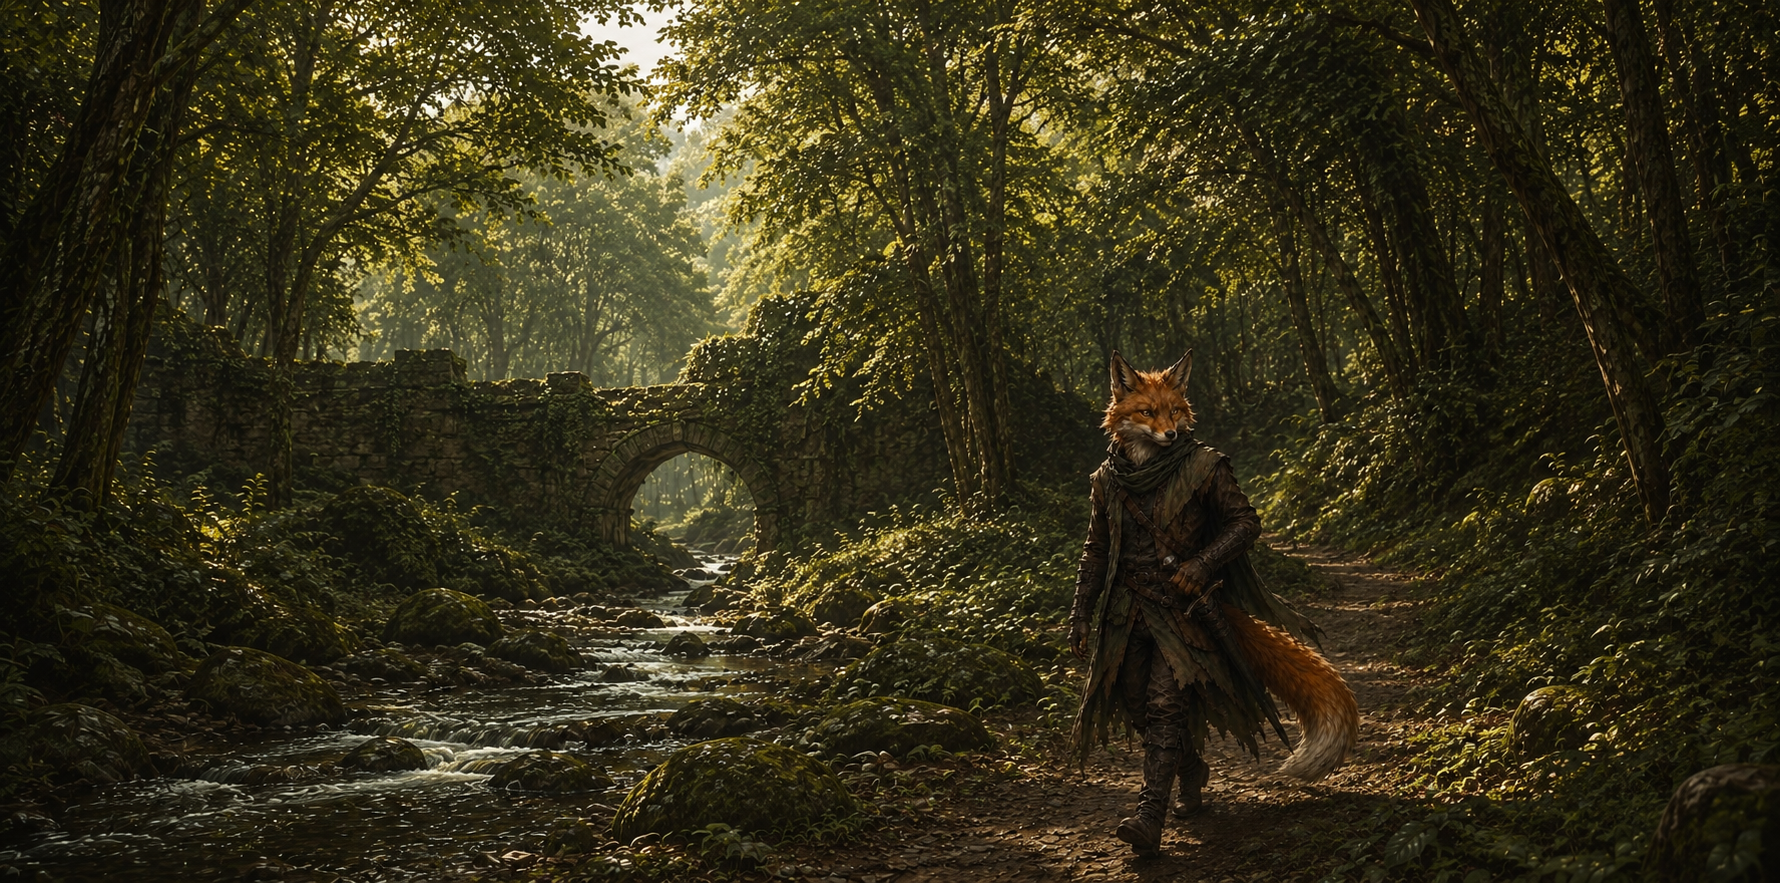
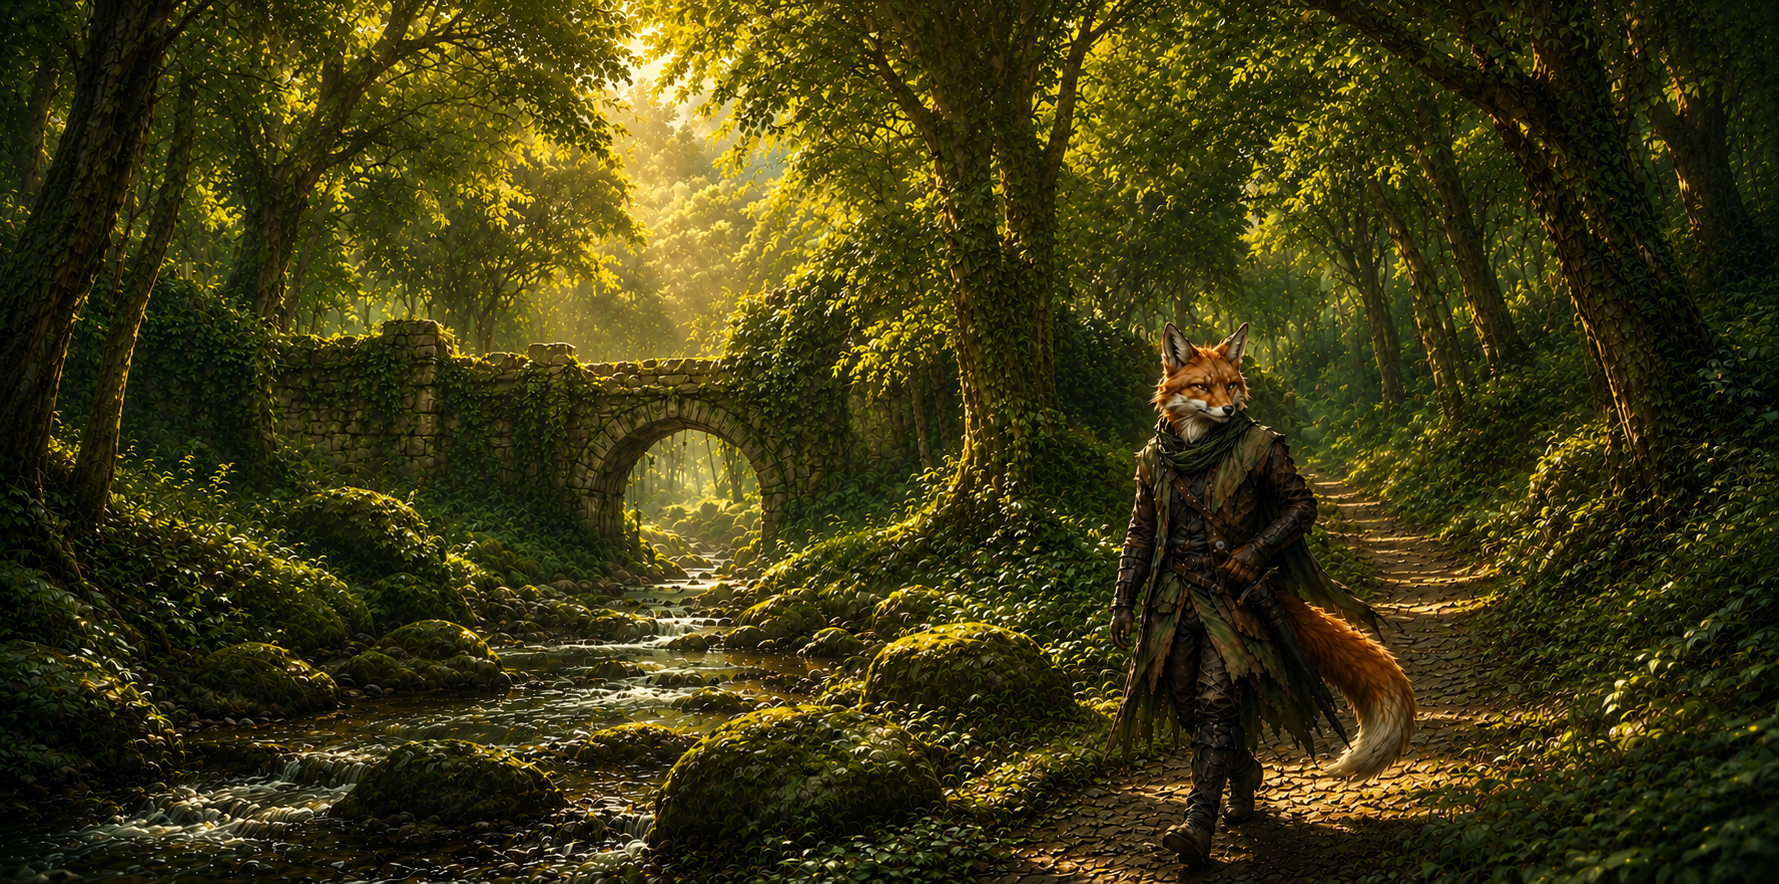
feat: update Home.vue with new layout and features for better user experience

diff --git a/resources/js/pages/public/Home.vue b/resources/js/pages/public/Home.vue
@@ -1,6 +1,7 @@
 <script setup lang="ts">
-import { Head } from '@inertiajs/vue3';
+import { Head, Link } from '@inertiajs/vue3';
 import { computed } from 'vue';
+import { login } from '@/routes';
 
 type Feedback = {
     text: string;
@@ -15,54 +16,37 @@ type SellerStats = {
     feedback: Feedback[];
 };
 
-const props = defineProps<{
+defineProps<{
     tcgplayerStorefrontUrl: string | null;
     sellerStats: SellerStats | null;
     showBuyersSay: boolean;
 }>();
 
-defineOptions({
-    layout: {
-        title: 'Mythic Fox Games — Buy & Sell Trading Card Games',
-        description:
-            'Mythic Fox Games is a TCGPlayer storefront for Magic: The Gathering, Lorcana, and Flesh & Blood. Pack-fresh cards, honest grading, fast shipping.',
-    },
-});
 
-const features = [
+const mainFeatures = [
     {
-        icon: 'pi pi-box',
-        title: 'Pack-fresh inventory',
-        body: 'Most cards come straight from sealed product we open ourselves. Never played, never shuffled.',
-    },
-    {
-        icon: 'pi pi-check-circle',
-        title: 'Honest condition',
-        body: 'Cards graded conservatively. NM means NM.',
+        icon: 'pi pi-tag',
+        title: 'Great Prices',
+        body: 'We offer some of the most competitive prices on the market for both buyers and sellers.',
     },
     {
         icon: 'pi pi-shield',
-        title: 'Protective packaging',
-        body: 'Penny sleeves and TCGuardian shipping protectors. Cards arrive flat and dry.',
+        title: 'Trusted & Secure',
+        body: 'Safe transactions, secure payments, and data protection you can count on.',
     },
     {
-        icon: 'pi pi-send',
-        title: 'Fast shipping',
-        body: 'Orders pack and ship within 1 business day.',
+        icon: 'pi pi-truck',
+        title: 'Fast & Reliable',
+        body: 'Quick shipping and fast payments so you can get back to what you love.',
     },
 ];
 
-const ratingStars = computed(() => {
-    if (!props.sellerStats) {
-        return [];
-    }
-
-    const filled = Math.round(props.sellerStats.rating);
-
-    return Array.from({ length: 5 }, (_, i) =>
-        i < filled ? 'pi pi-star-fill' : 'pi pi-star',
-    );
-});
+const aboutFeatures = [
+    { icon: 'pi pi-star', title: 'Collector Focused' },
+    { icon: 'pi pi-thumbs-up', title: 'Fair & Honest Deals' },
+    { icon: 'pi pi-lock', title: 'Safe & Secure Payments' },
+    { icon: 'pi pi-comments', title: 'Responsive Support' },
+];
 
 const organizationJsonLd = computed(() =>
     JSON.stringify({
@@ -70,14 +54,18 @@ const organizationJsonLd = computed(() =>
         '@type': 'Organization',
         name: 'Mythic Fox Games',
         url: 'https://mythicfoxgames.com',
-        logo: 'https://mythicfoxgames.com/mythicfox.png',
+        logo: 'https://mythicfoxgames.com/logo.png',
     }),
 );
 </script>
 
 <template>
     <Head>
-        <!-- Vue's template parser refuses a literal <script> tag, so we emit it via the dynamic-component trick. -->
+        <title>Mythic Fox Games — Buy & Sell Trading Card Games</title>
+        <meta
+            name="description"
+            content="Mythic Fox Games is your trusted source for buying and selling TCG singles. We offer competitive prices, fast payments, and a seamless experience for collectors and players alike."
+        />
         <!-- eslint-disable vue/no-v-text-v-html-on-component -->
         <component
             :is="'script'"
@@ -87,107 +75,182 @@ const organizationJsonLd = computed(() =>
         <!-- eslint-enable vue/no-v-text-v-html-on-component -->
     </Head>
 
-    <div class="mx-auto w-full max-w-5xl px-4 py-10 sm:py-14">
+    <div class="min-h-screen bg-[#12100C] font-sans text-[#FCFAEF]">
         <!-- HERO -->
-        <section
-            class="flex flex-col items-center gap-6 py-8 text-center sm:py-14"
-        >
-            <img
-                src="/mythicfox.png"
-                alt="Mythic Fox Games"
-                class="h-24 w-24 sm:h-32 sm:w-32"
-            />
-            <h1 class="text-3xl font-semibold text-mf-brown sm:text-4xl">
-                We buy &amp; sell trading card games.
-            </h1>
-            <a
-                v-if="tcgplayerStorefrontUrl"
-                :href="tcgplayerStorefrontUrl"
-                target="_blank"
-                rel="noopener"
-                data-test="hero-shop-cta"
-                class="inline-flex min-h-11 items-center justify-center gap-2 rounded-md bg-mf-orange px-6 py-3 text-base font-medium text-white shadow-sm transition-opacity hover:opacity-90 focus-visible:ring-2 focus-visible:ring-ring/40 focus-visible:outline-none"
-            >
-                Shop on TCGPlayer →
-            </a>
-        </section>
-
-        <!-- ABOUT -->
-        <section class="mx-auto max-w-3xl py-10 sm:py-14">
-            <p class="text-base leading-relaxed text-foreground sm:text-lg">
-                Mythic Fox Games is a TCGPlayer storefront. We buy and sell any
-                trading card game — currently specializing in Magic: The
-                Gathering, Lorcana, and Flesh &amp; Blood. Most of our inventory
-                comes from sealed product we open ourselves, so cards arrive
-                pack-fresh — never played, never shuffled. Every card is graded
-                honestly, packed in penny sleeves with TCGuardian shipping
-                protectors, and shipped within one business day. If anything
-                arrives wrong, message me — I'll make it right.
-            </p>
-        </section>
-
-        <!-- WHAT YOU GET -->
-        <section class="py-10 sm:py-14">
-            <h2 class="mb-8 text-center text-2xl font-semibold text-mf-brown">
-                What you get
-            </h2>
-            <div class="grid grid-cols-1 gap-6 sm:grid-cols-2 lg:grid-cols-4">
+        <section class="relative flex min-h-[85vh] flex-col">
+            <!-- Background forest image with overlay -->
+            <div class="absolute inset-0 overflow-hidden">
+                <img
+                    src="/forest-image.png"
+                    alt=""
+                    class="h-full w-full object-cover object-center"
+                />
                 <div
-                    v-for="feature in features"
-                    :key="feature.title"
-                    class="flex flex-col items-start gap-3 rounded-lg border border-border bg-card p-5"
-                >
-                    <i :class="[feature.icon, 'text-2xl text-mf-orange']" />
-                    <h3 class="text-lg font-semibold text-foreground">
-                        {{ feature.title }}
-                    </h3>
-                    <p class="text-sm text-muted-foreground">
-                        {{ feature.body }}
+                    class="absolute inset-0 bg-gradient-to-r from-[#12100C] via-[#12100C]/85 to-[#12100C]/25"
+                />
+                <div
+                    class="absolute right-0 bottom-0 left-0 h-40 bg-gradient-to-t from-[#12100C] to-transparent"
+                />
+            </div>
+
+            <!-- Logo -->
+            <div class="relative z-10 flex justify-center pt-8 pb-4">
+                <img src="/logo.png" alt="Mythic Fox Games" class="h-14 w-auto" />
+            </div>
+
+            <!-- Hero content -->
+            <div
+                class="relative z-10 mx-auto flex w-full max-w-6xl flex-1 items-center px-6 pb-20 sm:px-10"
+            >
+                <div class="max-w-xl">
+                    <h1 class="mb-6 text-5xl font-bold leading-tight sm:text-6xl">
+                        We buy and<br />
+                        Sell
+                        <span class="text-[#F38B17]">TCG Cards</span>
+                    </h1>
+                    <p class="mb-8 text-base leading-relaxed text-[#FCFAEF]/75 sm:text-lg">
+                        Mythic Fox Games is your trusted source for buying and selling TCG
+                        singles. We offer competitive prices, fast payments, and a seamless
+                        experience for collectors and players alike.
                     </p>
+                    <a
+                        v-if="tcgplayerStorefrontUrl"
+                        :href="tcgplayerStorefrontUrl"
+                        target="_blank"
+                        rel="noopener"
+                        data-test="hero-shop-cta"
+                        class="inline-flex items-center gap-2 rounded border border-[#F38B17] px-6 py-3 text-sm font-semibold tracking-widest text-[#F38B17] uppercase transition-colors hover:bg-[#F38B17] hover:text-[#12100C]"
+                    >
+                        Browse Inventory →
+                    </a>
                 </div>
             </div>
         </section>
 
-        <!-- WHAT BUYERS SAY -->
-        <section
-            v-if="showBuyersSay && sellerStats"
-            data-test="buyers-say"
-            class="py-10 sm:py-14"
-        >
-            <h2 class="mb-6 text-center text-2xl font-semibold text-mf-brown">
-                What buyers say
-            </h2>
-            <div
-                class="mb-8 flex items-center justify-center gap-2 text-lg"
-                data-test="buyers-say-rating"
-            >
-                <span
-                    v-for="(star, idx) in ratingStars"
-                    :key="idx"
-                    :class="[star, 'text-mf-orange']"
-                />
-                <span class="ml-2 text-foreground">
-                    {{ sellerStats.rating.toFixed(1) }} from
-                    {{ sellerStats.review_count }} reviews on TCGPlayer
-                </span>
-            </div>
-            <div
-                v-if="sellerStats.feedback.length > 0"
-                class="grid grid-cols-1 gap-4 sm:grid-cols-3"
-            >
-                <article
-                    v-for="(item, idx) in sellerStats.feedback"
-                    :key="idx"
-                    class="flex flex-col gap-3 rounded-lg border border-border bg-card p-5"
-                >
-                    <p class="text-sm leading-relaxed text-mf-brown">
-                        “{{ item.text }}”
-                    </p>
-                    <div class="text-xs text-muted-foreground">
-                        — {{ item.author }} · {{ item.date }}
+        <!-- MAIN FEATURES -->
+        <section class="px-6 py-16">
+            <div class="mx-auto max-w-5xl">
+                <div class="grid grid-cols-1 gap-10 sm:grid-cols-3">
+                    <div
+                        v-for="feature in mainFeatures"
+                        :key="feature.title"
+                        class="flex flex-col items-center gap-4 text-center"
+                    >
+                        <div
+                            class="flex h-16 w-16 items-center justify-center rounded-full border border-[#F38B17]/40 text-[#F38B17]"
+                        >
+                            <i :class="[feature.icon, 'text-2xl']" />
+                        </div>
+                        <h3 class="text-lg font-semibold text-[#FCFAEF]">
+                            {{ feature.title }}
+                        </h3>
+                        <p class="text-sm leading-relaxed text-[#FCFAEF]/55">
+                            {{ feature.body }}
+                        </p>
                     </div>
-                </article>
+                </div>
             </div>
         </section>
+
+        <!-- ABOUT US -->
+        <section class="px-6 py-16">
+            <div class="mx-auto max-w-3xl text-center">
+                <div class="mb-4 flex items-center justify-center gap-3">
+                    <div class="h-px w-10 bg-[#F38B17]/40" />
+                    <span
+                        class="text-xs font-semibold tracking-widest text-[#F38B17] uppercase"
+                    >
+                        About Us
+                    </span>
+                    <div class="h-px w-10 bg-[#F38B17]/40" />
+                </div>
+                <h2 class="mb-6 text-3xl font-bold text-[#FCFAEF] sm:text-4xl">
+                    Built for Collectors,<br />by Collectors
+                </h2>
+                <p class="mb-14 text-base leading-relaxed text-[#FCFAEF]/65">
+                    Mythic Fox Games was built by passionate collectors, for collectors. We
+                    believe in fair deals, honest communication, and helping the TCG
+                    community grow. Whether you're looking to sell your collection or find
+                    that missing piece, we're here to help.
+                </p>
+            </div>
+
+            <div class="mx-auto max-w-4xl">
+                <div class="grid grid-cols-2 gap-8 sm:grid-cols-4">
+                    <div
+                        v-for="feat in aboutFeatures"
+                        :key="feat.title"
+                        class="flex flex-col items-center gap-3 text-center"
+                    >
+                        <div
+                            class="flex h-14 w-14 items-center justify-center rounded-full border border-[#F38B17]/30 text-[#F38B17]"
+                        >
+                            <i :class="[feat.icon, 'text-xl']" />
+                        </div>
+                        <p class="text-sm font-medium text-[#FCFAEF]/75">
+                            {{ feat.title }}
+                        </p>
+                    </div>
+                </div>
+            </div>
+        </section>
+
+        <!-- FOOTER -->
+        <footer class="border-t border-[#FCFAEF]/10 px-6 py-12 text-center">
+            <img
+                src="/logo.png"
+                alt="Mythic Fox Games"
+                class="mx-auto mb-6 h-10 w-auto"
+            />
+            <div class="mb-6 flex items-center justify-center gap-5">
+                <a
+                    href="#"
+                    class="text-[#FCFAEF]/45 transition-colors hover:text-[#F38B17]"
+                    aria-label="Facebook"
+                >
+                    <i class="pi pi-facebook text-lg" />
+                </a>
+                <a
+                    href="#"
+                    class="text-[#FCFAEF]/45 transition-colors hover:text-[#F38B17]"
+                    aria-label="Twitter"
+                >
+                    <i class="pi pi-twitter text-lg" />
+                </a>
+                <a
+                    href="#"
+                    class="text-[#FCFAEF]/45 transition-colors hover:text-[#F38B17]"
+                    aria-label="Instagram"
+                >
+                    <i class="pi pi-instagram text-lg" />
+                </a>
+                <a
+                    href="mailto:[email redacted]"
+                    class="text-[#FCFAEF]/45 transition-colors hover:text-[#F38B17]"
+                    aria-label="Email"
+                >
+                    <i class="pi pi-envelope text-lg" />
+                </a>
+            </div>
+            <p class="mb-3 text-xs text-[#FCFAEF]/35">
+                © 2024 Mythic Fox Games. All rights reserved.
+            </p>
+            <div class="flex items-center justify-center gap-4 text-xs text-[#FCFAEF]/35">
+                <a href="#" class="transition-colors hover:text-[#FCFAEF]/65">
+                    Terms of Service
+                </a>
+                <span>·</span>
+                <a href="#" class="transition-colors hover:text-[#FCFAEF]/65">
+                    Privacy Policy
+                </a>
+                <span>·</span>
+                <Link
+                    :href="login().url"
+                    class="transition-colors hover:text-[#FCFAEF]/65"
+                >
+                    Login
+                </Link>
+            </div>
+        </footer>
     </div>
 </template>

diff --git a/resources/js/app.ts b/resources/js/app.ts
@@ -19,6 +19,7 @@ createInertiaApp({
     layout: (name) => {
         switch (true) {
             case name === 'Welcome':
+            case name === 'public/Home':
                 return null;
             case name.startsWith('public/'):
                 return PublicLayout;